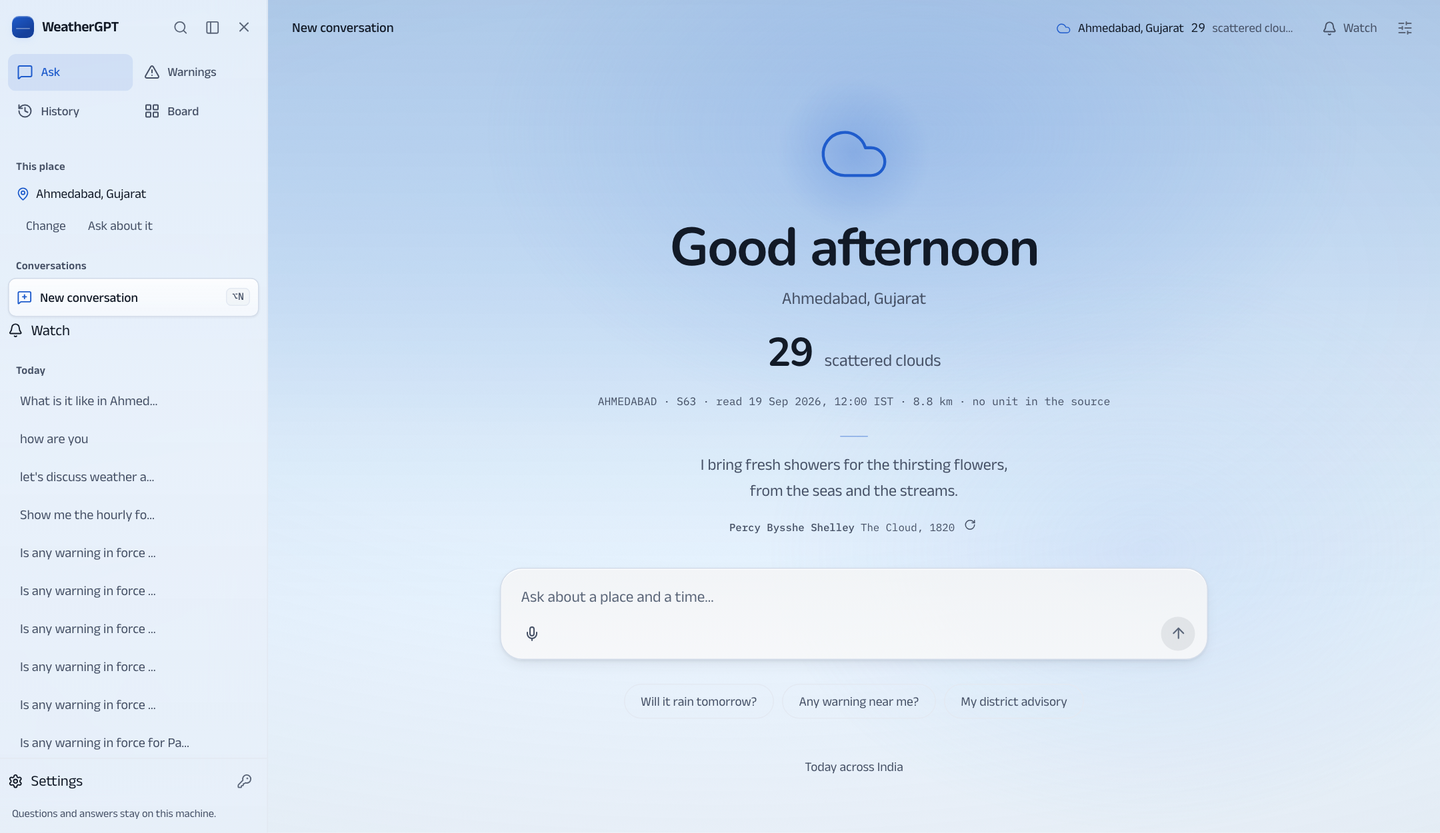
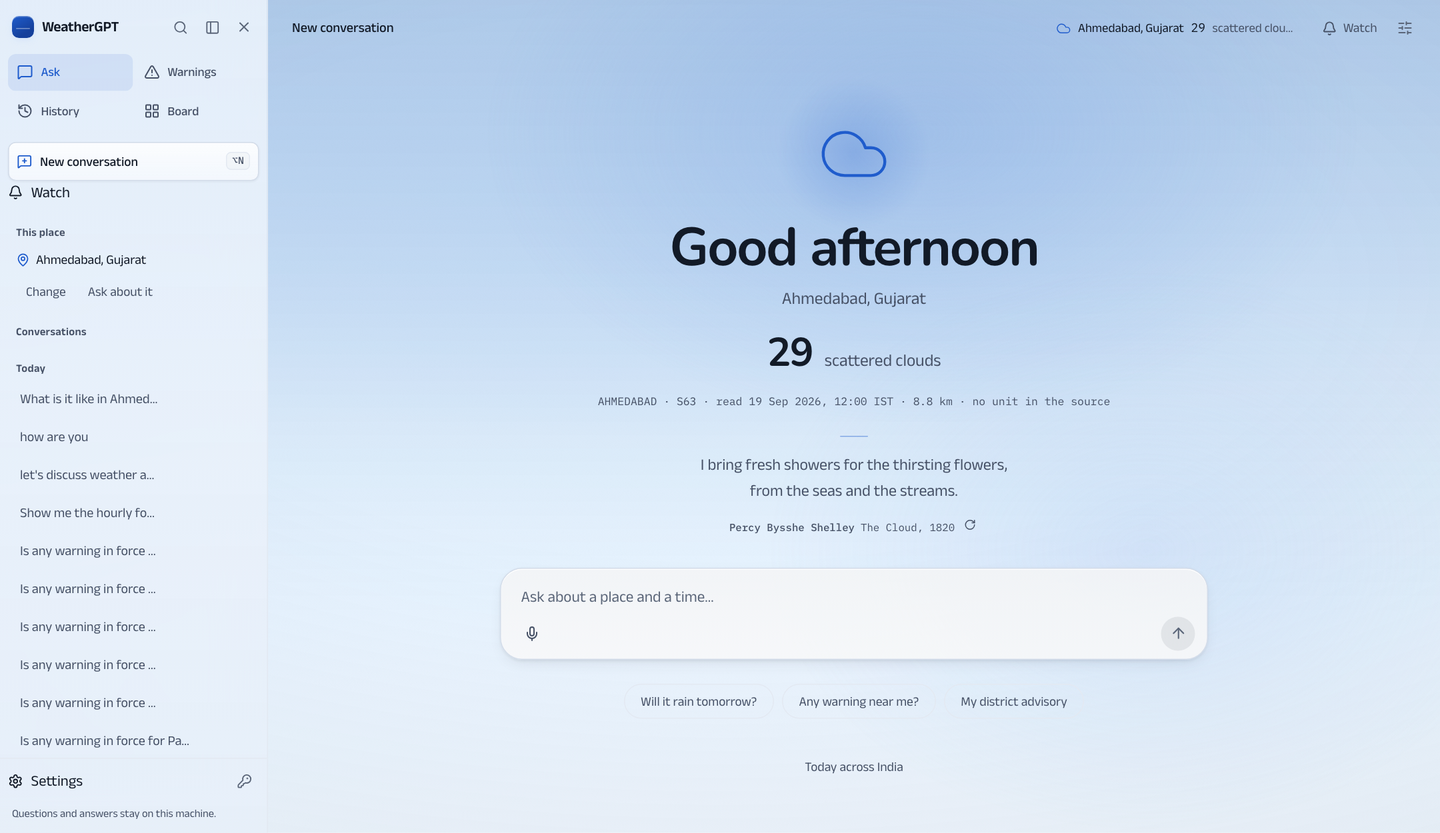
The rail's actions sit above its sections
New conversation and Watch were the first two rows inside a section called
Conversations, which is where a reader looking for "start something" or "what am I
watching" would not think to look. They sit directly under the homes now, and the
section below them is only conversations.

The documentation pictures are re-taken against this build.

diff --git a/frontend/src/gpt/Rail.tsx b/frontend/src/gpt/Rail.tsx
@@ -204,6 +204,20 @@ export function Rail({
       </nav>
 
       <div className="g-rail-body">
+        {/* The two actions, directly under the homes: a reader scanning the rail for "start something" or
+            "what am I watching" should not have to look inside a section called Conversations for either. */}
+        <div className="g-rail-actions-lead">
+          <button type="button" className="g-new" onClick={onNew} title="New conversation (⌥N)">
+            <MessageSquarePlus size={15} aria-hidden="true" />
+            <span className="g-new-label">New conversation</span>
+            <kbd className="g-kbd">⌥N</kbd>
+          </button>
+          <button type="button" className="g-row g-row-plain g-rail-action" onClick={onPlans} title="Plans, watches and the notification inbox">
+            <Bell size={15} aria-hidden="true" />
+            <span className="g-new-label">Watch</span>
+          </button>
+        </div>
+
         {home && home.id !== 'ask' ? (
           <section className="g-section" aria-label={home.label}>
             <p className="g-rail-label">In {home.label}</p>
@@ -237,18 +251,6 @@ export function Rail({
 
         <section className="g-section" aria-label="Conversations">
           <p className="g-rail-label">Conversations</p>
-          <div className="g-rail-actions g-rail-actions-lead">
-            <button type="button" className="g-new" onClick={onNew} title="New conversation (⌥N)">
-              <MessageSquarePlus size={15} aria-hidden="true" />
-              <span className="g-new-label">New conversation</span>
-              <kbd className="g-kbd">⌥N</kbd>
-            </button>
-            <button type="button" className="g-row g-row-plain g-rail-action" onClick={onPlans} title="Plans, watches and the notification inbox">
-              <Bell size={15} aria-hidden="true" />
-              <span className="g-new-label">Watch</span>
-            </button>
-          </div>
-
           {failed ? <p className="g-notice" role="status">{failed}</p> : null}
           {rows.isPending ? <p className="g-empty-note">Reading the stored conversations…</p> : null}
           {rows.isError ? <p className="g-empty-note">The conversation store did not answer. Nothing is listed rather than an empty list being shown as none.</p> : null}
